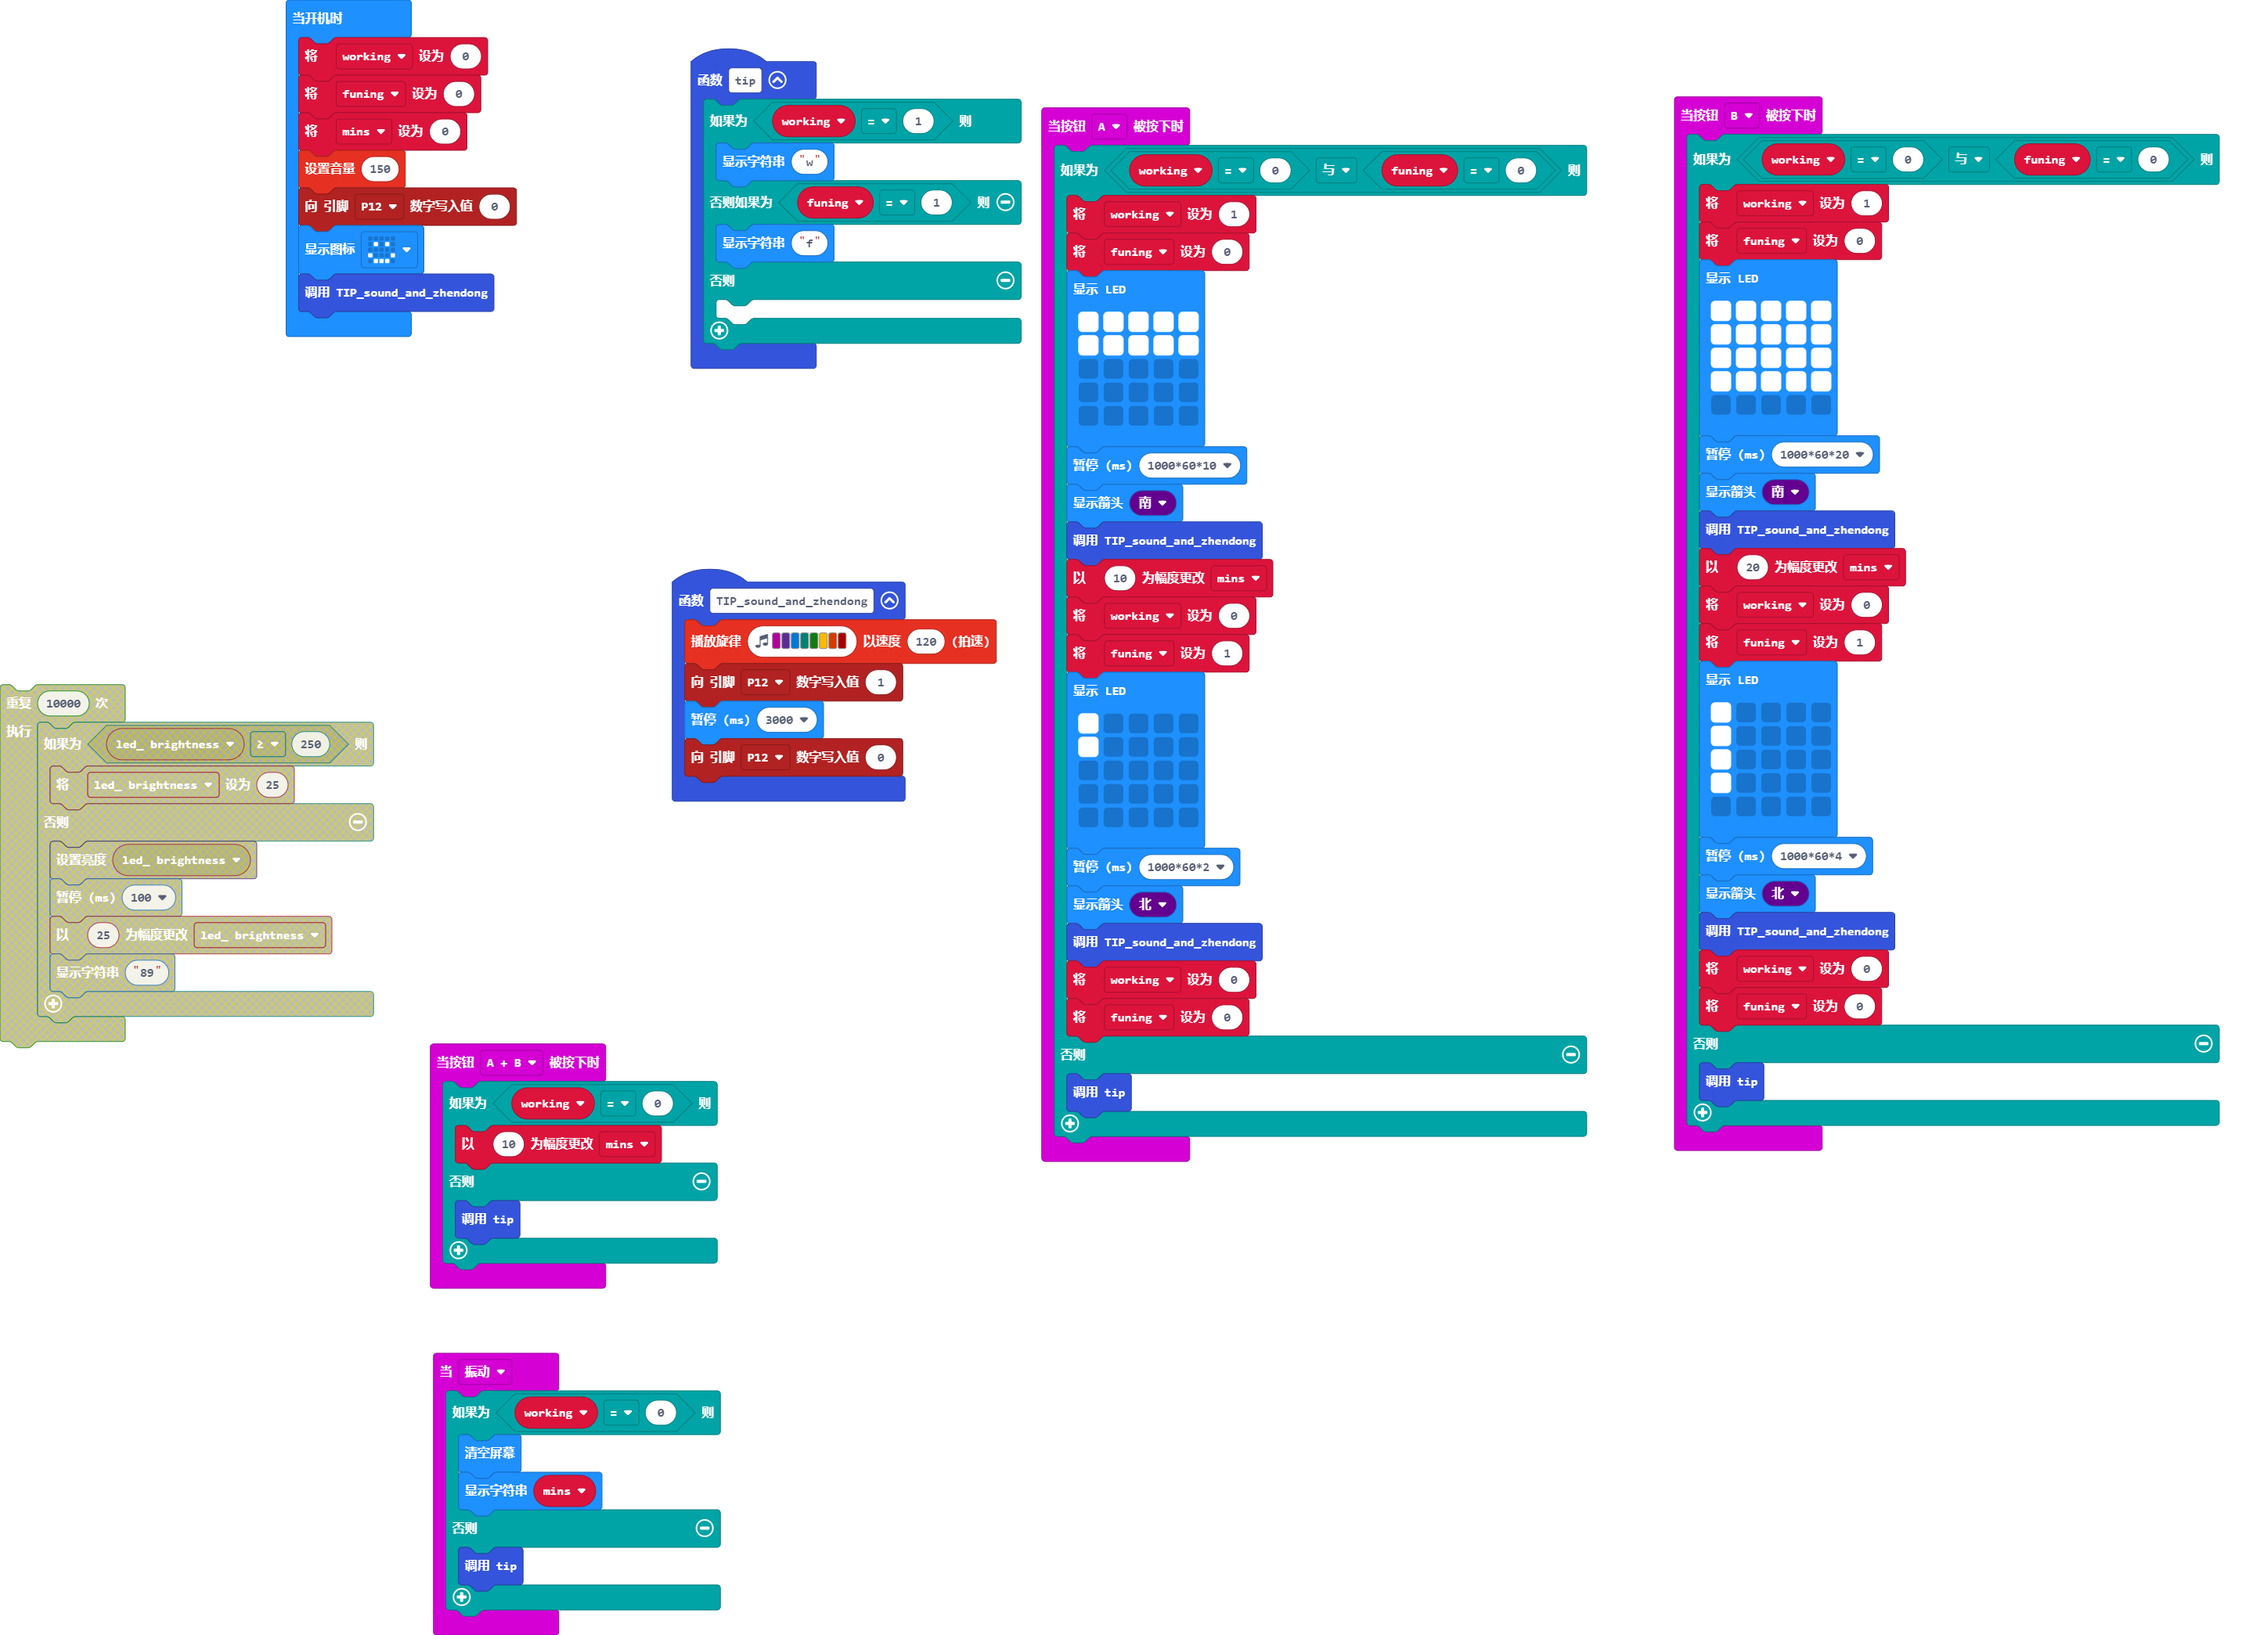
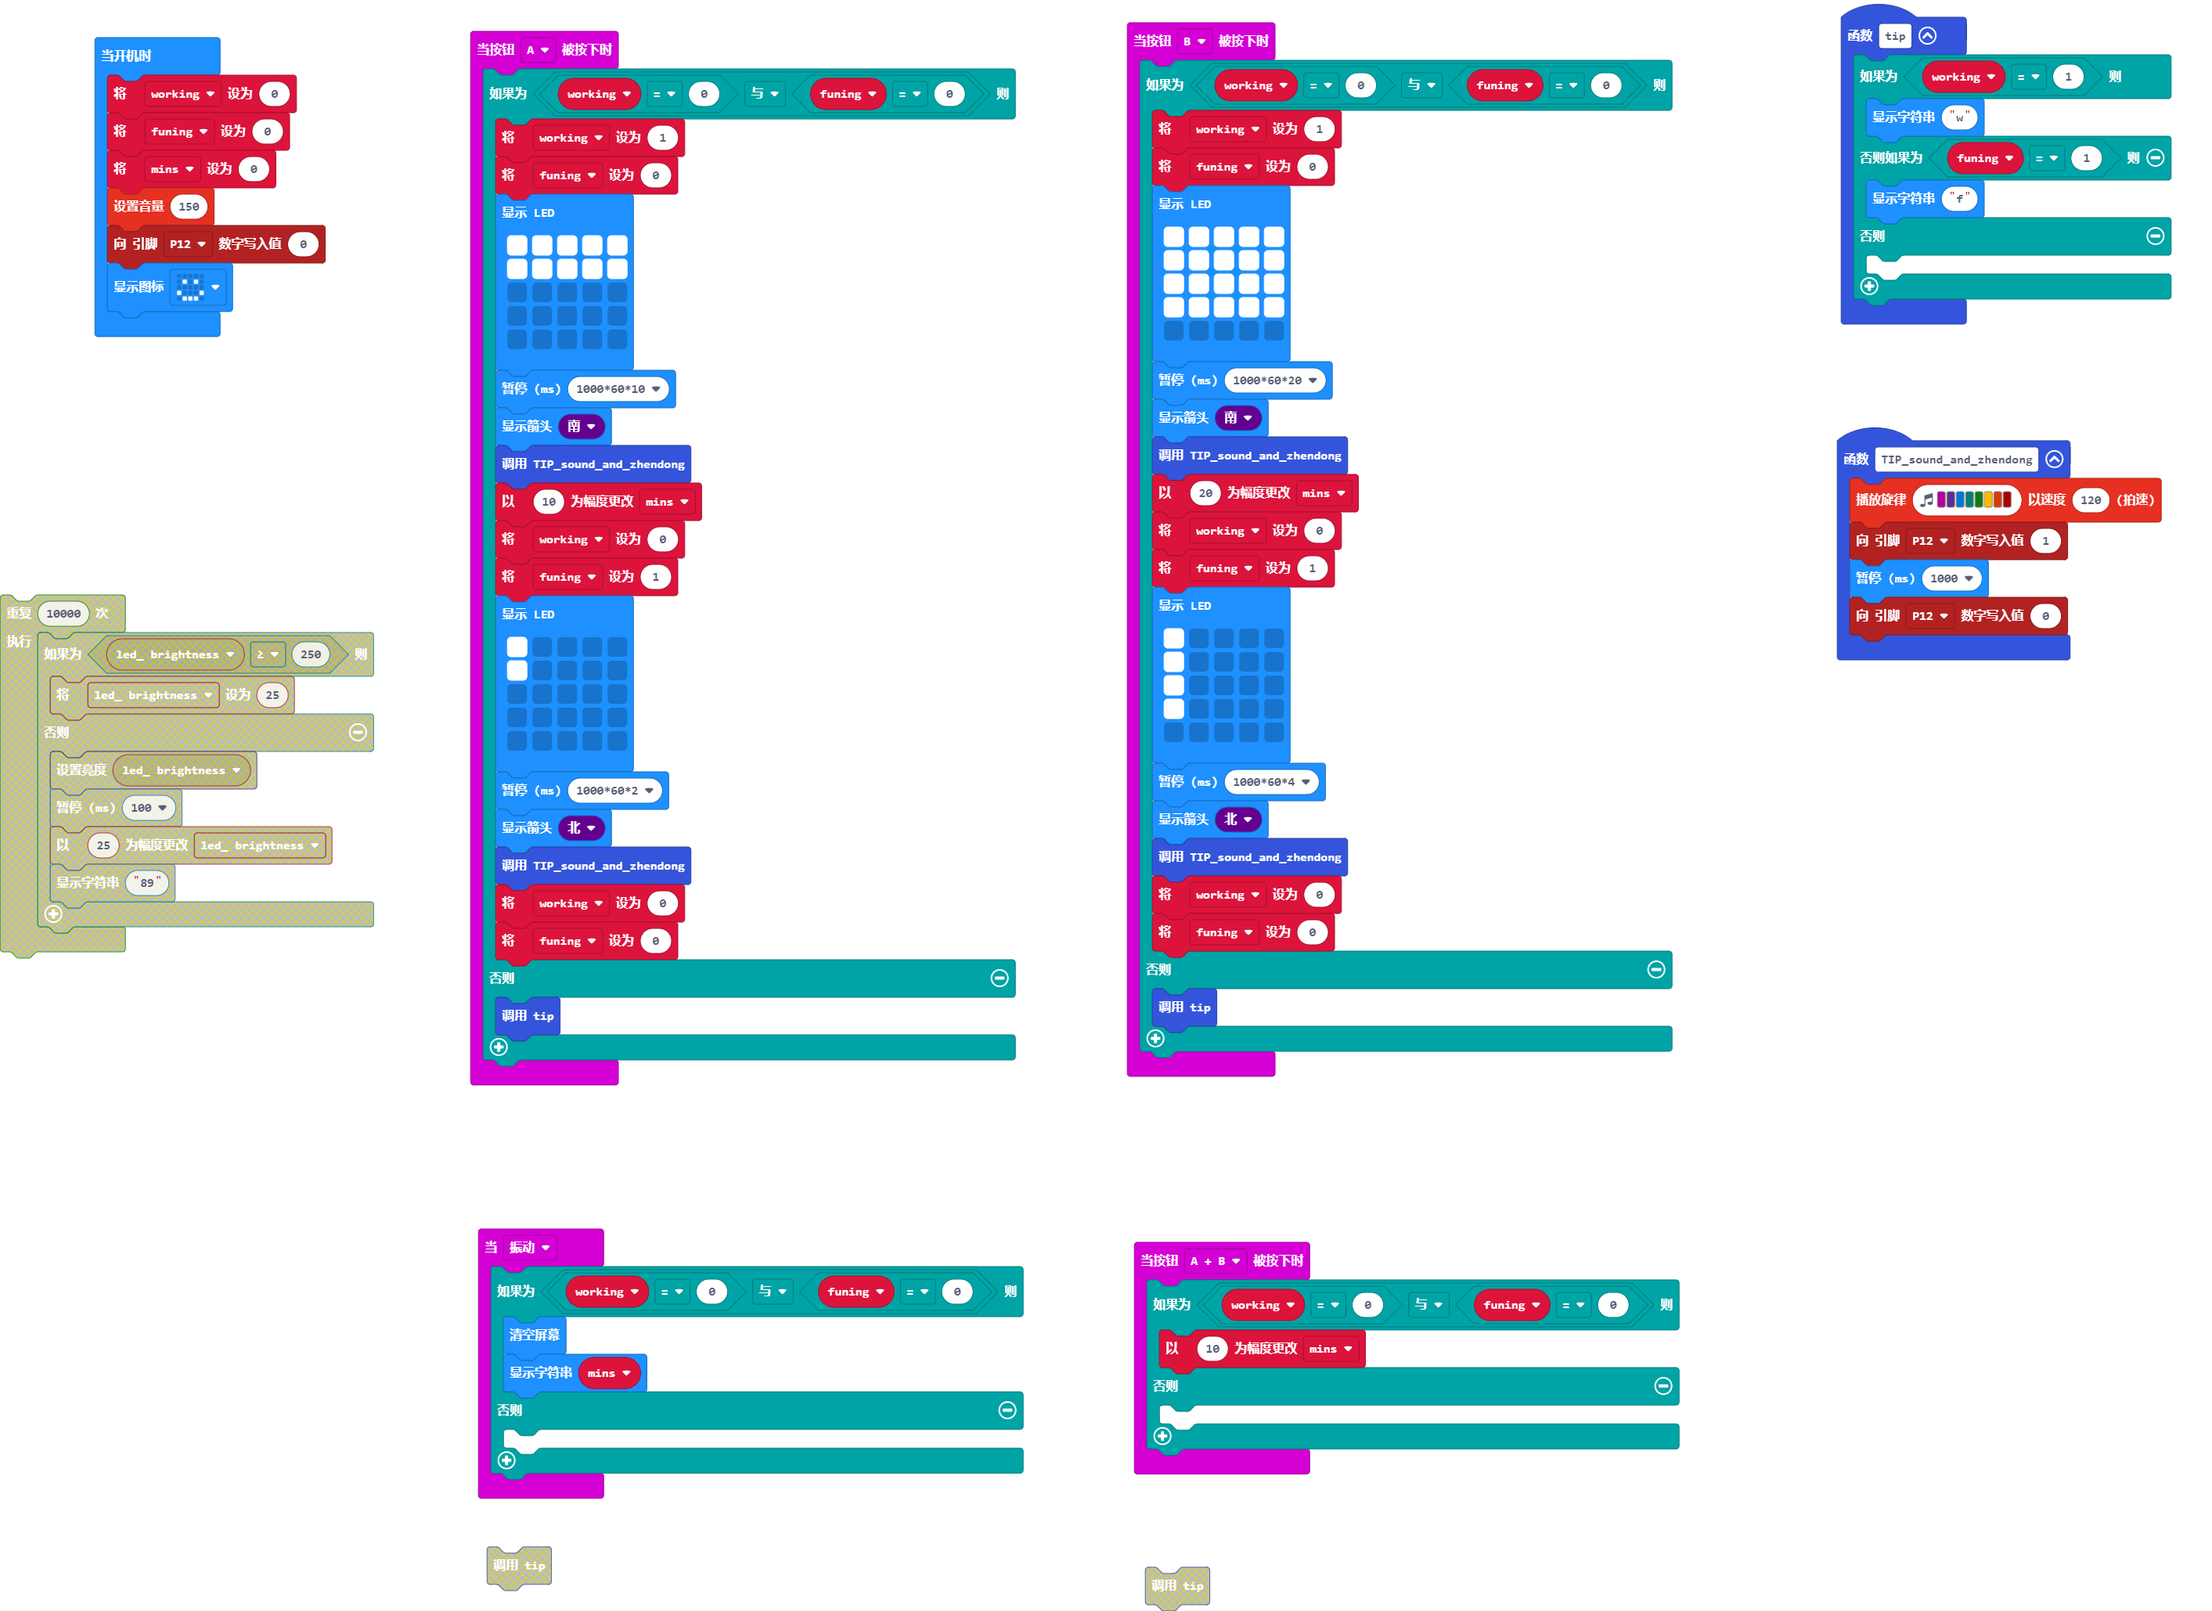
S

diff --git a/main.ts b/main.ts
@@ -43,22 +43,22 @@ function tip () {
 function TIP_sound_and_zhendong () {
     music.playMelody("C D E F G A B C5 ", 120)
     pins.digitalWritePin(DigitalPin.P12, 1)
-    basic.pause(3000)
+    basic.pause(1000)
     pins.digitalWritePin(DigitalPin.P12, 0)
 }
 input.onGesture(Gesture.Shake, function () {
-    if (working == 0) {
+    if (working == 0 && funing == 0) {
         basic.clearScreen()
         basic.showString("" + (mins))
     } else {
-        tip()
+    	
     }
 })
 input.onButtonPressed(Button.AB, function () {
-    if (working == 0) {
+    if (working == 0 && funing == 0) {
         mins += 10
     } else {
-        tip()
+    	
     }
 })
 input.onButtonPressed(Button.B, function () {
@@ -103,4 +103,3 @@ mins = 0
 music.setVolume(150)
 pins.digitalWritePin(DigitalPin.P12, 0)
 basic.showIcon(IconNames.Happy)
-TIP_sound_and_zhendong()
